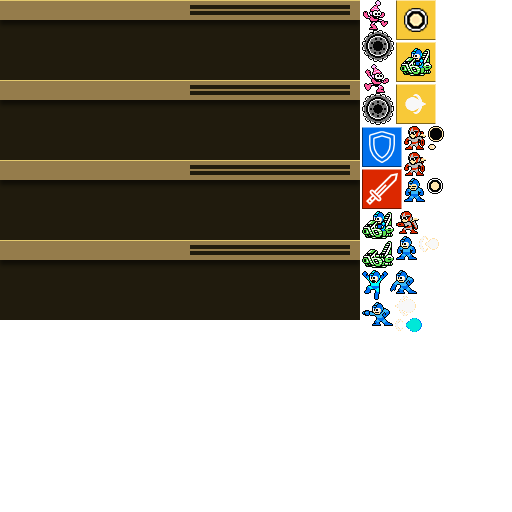
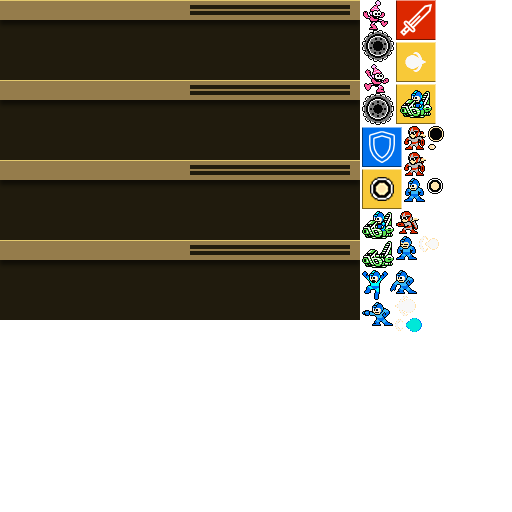
update new scale canvas

Changed region(s): [[0.75, 0.0, 0.875, 0.25], [0.6875, 0.3125, 0.8125, 0.4062]]

diff --git a/project_1254/project_1254.html b/project_1254/project_1254.html
@@ -15,7 +15,7 @@
 <title>project_1254</title>
 <!-- write your code here -->
 <style>
-  #animation_container {
+  #animation_container, #_preload_div_ {
 	position:absolute;
 	margin:auto;
 	left:0;right:0;
@@ -23,7 +23,7 @@
   }
 </style>
 <script src="https://code.createjs.com/createjs-2015.11.26.min.js"></script>
-<script src="project_1254.js?1540749013701"></script>
+<script src="project_1254.js?1540820442621"></script>
 <script>
 var canvas, stage, exportRoot, anim_container, dom_overlay_container, fnStartAnimation;
 function init() {
@@ -51,6 +51,9 @@ function handleComplete(evt,comp) {
 	for(i=0; i<ssMetadata.length; i++) {
 		ss[ssMetadata[i].name] = new createjs.SpriteSheet( {"images": [queue.getResult(ssMetadata[i].name)], "frames": ssMetadata[i].frames} )
 	}
+	var preloaderDiv = document.getElementById("_preload_div_");
+	preloaderDiv.style.display = 'none';
+	canvas.style.display = 'block';
 	exportRoot = new lib.project_1254();
 	stage = new lib.Stage(canvas);	
 	//Registers the "tick" event listener.
@@ -59,17 +62,55 @@ function handleComplete(evt,comp) {
 		createjs.Ticker.setFPS(lib.properties.fps);
 		createjs.Ticker.addEventListener("tick", stage);
 	}	    
+	//Code to support hidpi screens and responsive scaling.
+	function makeResponsive(isResp, respDim, isScale, scaleType) {		
+		var lastW, lastH, lastS=1;		
+		window.addEventListener('resize', resizeCanvas);		
+		resizeCanvas();		
+		function resizeCanvas() {			
+			var w = lib.properties.width, h = lib.properties.height;			
+			var iw = window.innerWidth, ih=window.innerHeight;			
+			var pRatio = window.devicePixelRatio || 1, xRatio=iw/w, yRatio=ih/h, sRatio=1;			
+			if(isResp) {                
+				if((respDim=='width'&&lastW==iw) || (respDim=='height'&&lastH==ih)) {                    
+					sRatio = lastS;                
+				}				
+				else if(!isScale) {					
+					if(iw<w || ih<h)						
+						sRatio = Math.min(xRatio, yRatio);				
+				}				
+				else if(scaleType==1) {					
+					sRatio = Math.min(xRatio, yRatio);				
+				}				
+				else if(scaleType==2) {					
+					sRatio = Math.max(xRatio, yRatio);				
+				}			
+			}			
+			canvas.width = w*pRatio*sRatio;			
+			canvas.height = h*pRatio*sRatio;
+			canvas.style.width = anim_container.style.width = dom_overlay_container.style.width = preloaderDiv.style.width = w*sRatio+'px';				
+			canvas.style.height = anim_container.style.height = dom_overlay_container.style.height = preloaderDiv.style.height = h*sRatio+'px';
+			stage.scaleX = pRatio*sRatio;			
+			stage.scaleY = pRatio*sRatio;			
+			lastW = iw; lastH = ih; lastS = sRatio;            
+			stage.tickOnUpdate = false;            
+			stage.update();            
+			stage.tickOnUpdate = true;		
+		}
+	}
+	makeResponsive(true,'width',true,1);	
 	AdobeAn.compositionLoaded(lib.properties.id);
 	fnStartAnimation();
 }
 </script>
 <!-- write your code here -->
 </head>
-<body onload="init();" style="margin:0px; background-color: #201b0d">
-	<div id="animation_container" style="background-color:rgba(204, 204, 204, 1.00); width:360px; height:640px; box-shadow: 0px 0px 10px black;">
-		<canvas id="canvas" width="360" height="640" style="position: absolute; display: block; background-color:rgba(204, 204, 204, 1.00);"></canvas>
-		<div id="dom_overlay_container" style="pointer-events:none; overflow:hidden; width:360px; height:640px; position: absolute; left: 0px; top: 0px; display: block;">
+<body onload="init();" style="margin:0px;">
+	<div id="animation_container" style="background-color:rgba(204, 204, 204, 1.00); width:360px; height:640px">
+		<canvas id="canvas" width="360" height="640" style="position: absolute; display: none; background-color:rgba(204, 204, 204, 1.00);"></canvas>
+		<div id="dom_overlay_container" style="pointer-events:none; overflow:hidden; width:360px; height:640px; position: absolute; left: 0px; top: 0px; display: none;">
 		</div>
 	</div>
+    <div id='_preload_div_' style='position:absolute; top:0; left:0; display: inline-block; height:640px; width: 360px; text-align: center;'>	<span style='display: inline-block; height: 100%; vertical-align: middle;'></span>	<img src=images/_preloader.gif?1540820442621 style='vertical-align: middle; max-height: 100%'/></div>
 </body>
 </html>

diff --git a/project_1254/project_1254.js b/project_1254/project_1254.js
@@ -3,7 +3,7 @@
 var p; // shortcut to reference prototypes
 var lib={};var ss={};var img={};
 lib.ssMetadata = [
-		{name:"project_1254_atlas_P_", frames: [[0,0,360,320],[362,64,32,61],[362,0,32,62],[362,169,40,40],[362,127,40,40],[362,211,32,28],[362,241,32,27],[428,144,8,6],[395,318,27,14],[419,236,20,16],[395,296,21,20],[427,178,16,16],[428,126,16,16],[362,270,26,30],[362,302,31,24],[396,84,40,40],[396,0,40,40],[396,42,40,40],[396,236,21,24],[404,178,21,24],[390,270,27,24],[396,211,23,23],[404,126,22,24],[404,152,22,24]]}
+		{name:"project_1254_atlas_P_", frames: [[0,0,360,320],[362,64,32,61],[362,0,32,62],[396,0,40,40],[362,127,40,40],[362,211,32,28],[362,241,32,27],[428,144,8,6],[395,318,27,14],[419,236,20,16],[395,296,21,20],[427,178,16,16],[428,126,16,16],[362,270,26,30],[362,302,31,24],[396,42,40,40],[362,169,40,40],[396,84,40,40],[404,178,21,24],[396,236,21,24],[390,270,27,24],[396,211,23,23],[404,126,22,24],[404,152,22,24]]}
 ];
 
 
@@ -1643,8 +1643,8 @@ lib.properties = {
 	color: "#CCCCCC",
 	opacity: 1.00,
 	manifest: [
-		{src:"images/bg01.jpg?1540749013676", id:"bg01"},
-		{src:"images/project_1254_atlas_P_.png?1540749013617", id:"project_1254_atlas_P_"}
+		{src:"images/bg01.jpg?1540820442579", id:"bg01"},
+		{src:"images/project_1254_atlas_P_.png?1540820442519", id:"project_1254_atlas_P_"}
 	],
 	preloads: []
 };
